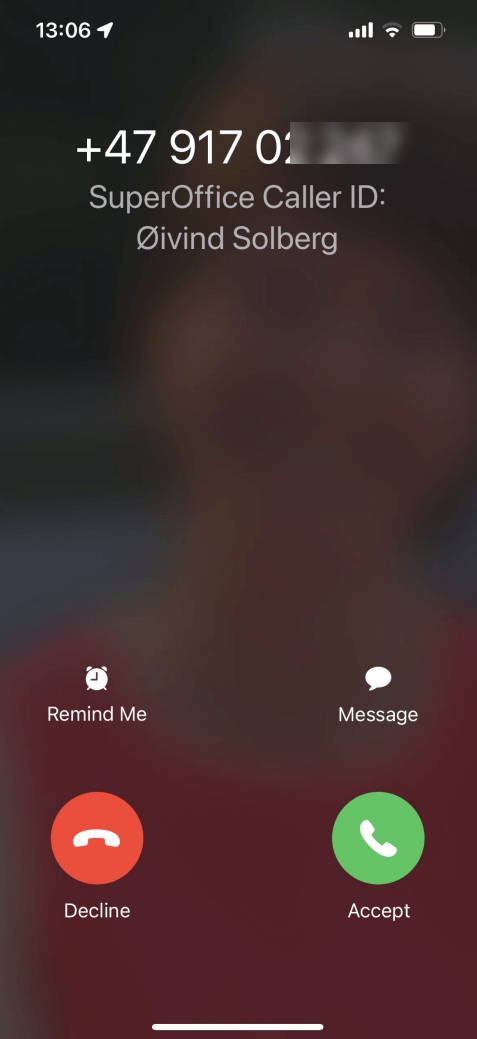
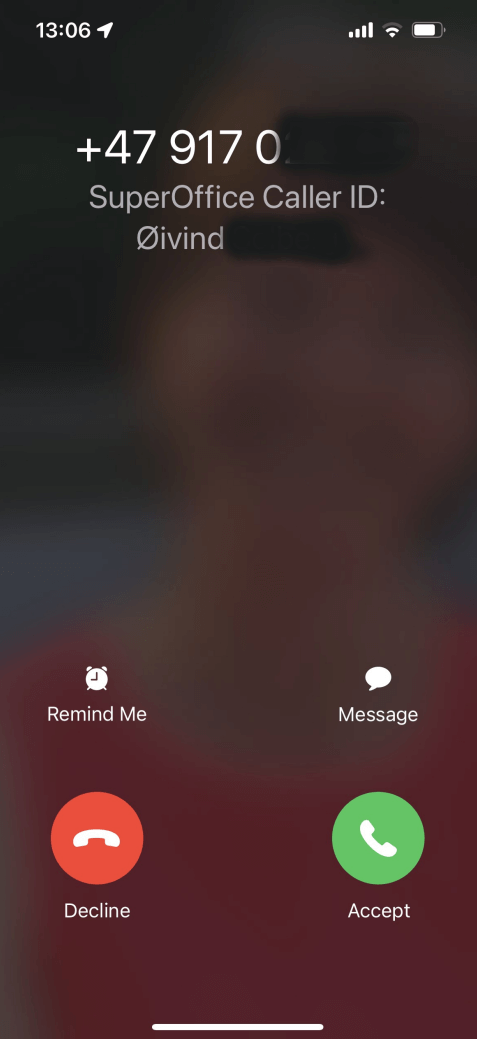
#1888 Blur names, fix paths

Changed region(s): [[0.5577, 0.0924, 0.8512, 0.1848], [0.4403, 0.1848, 0.7338, 0.2772]]

diff --git a/docs/da/mobile/superoffice-mobile/index.md b/docs/da/mobile/superoffice-mobile/index.md
@@ -92,7 +92,7 @@ Er du allerede logget ind? [Udforsk appen][4] eller [tilpas dine indstillinger][
 [1]: ../../../en/mobile/superoffice-mobile/login.md
 [2]: ../../../en/mobile/superoffice-mobile/set-up-email.md
 [3]: ../../../en/mobile/superoffice-mobile/caller-id.md
-[4]: ../../../en/mobile/superoffice-mobile/interface.md
+[4]: ../../../en/mobile/superoffice-mobile/interface-guide.md
 [5]: ../../../en/mobile/superoffice-mobile/settings.md
 [16]: https://apps.apple.com/us/app/superoffice-mobile-crm/id1516435957
 [17]: https://play.google.com/store/apps/details?id=no.superoffice.mobile&hl=no&gl=US&pli=1

diff --git a/docs/no/mobile/superoffice-mobile/index.md b/docs/no/mobile/superoffice-mobile/index.md
@@ -92,7 +92,7 @@ Allerede logget inn? [Utforsk grensesnittet][4] eller [tilpass innstillingene di
 [1]: ../../../en/mobile/superoffice-mobile/login.md
 [2]: ../../../en/mobile/superoffice-mobile/set-up-email.md
 [3]: ../../../en/mobile/superoffice-mobile/caller-id.md
-[4]: ../../../en/mobile/superoffice-mobile/interface.md
+[4]: ../../../en/mobile/superoffice-mobile/interface-guide.md
 [5]: ../../../en/mobile/superoffice-mobile/settings.md
 [16]: https://apps.apple.com/us/app/superoffice-mobile-crm/id1516435957
 [17]: https://play.google.com/store/apps/details?id=no.superoffice.mobile&hl=no&gl=US&pli=1

diff --git a/docs/sv/mobile/superoffice-mobile/index.md b/docs/sv/mobile/superoffice-mobile/index.md
@@ -92,7 +92,7 @@ Redan inloggad? [Utforska gränssnittet][4] eller [anpassa dina inställningar][
 [1]: ../../../en/mobile/superoffice-mobile/login.md
 [2]: ../../../en/mobile/superoffice-mobile/set-up-email.md
 [3]: ../../../en/mobile/superoffice-mobile/caller-id.md
-[4]: ../../../en/mobile/superoffice-mobile/interface.md
+[4]: ../../../en/mobile/superoffice-mobile/interface-guide.md
 [5]: ../../../en/mobile/superoffice-mobile/settings.md
 [16]: https://apps.apple.com/us/app/superoffice-mobile-crm/id1516435957
 [17]: https://play.google.com/store/apps/details?id=no.superoffice.mobile&hl=no&gl=US&pli=1

diff --git a/docs/de/mobile/superoffice-mobile/index.md b/docs/de/mobile/superoffice-mobile/index.md
@@ -92,7 +92,7 @@ Bereits angemeldet? [App entdecken][4] oder [Einstellungen anpassen][5].
 [1]: ../../../en/mobile/superoffice-mobile/login.md
 [2]: ../../../en/mobile/superoffice-mobile/set-up-email.md
 [3]: ../../../en/mobile/superoffice-mobile/caller-id.md
-[4]: ../../../en/mobile/superoffice-mobile/interface.md
+[4]: ../../../en/mobile/superoffice-mobile/interface-guide.md
 [5]: ../../../en/mobile/superoffice-mobile/settings.md
 [16]: https://apps.apple.com/us/app/superoffice-mobile-crm/id1516435957
 [17]: https://play.google.com/store/apps/details?id=no.superoffice.mobile&hl=no&gl=US&pli=1

diff --git a/docs/nl/mobile/superoffice-mobile/index.md b/docs/nl/mobile/superoffice-mobile/index.md
@@ -92,7 +92,7 @@ Al ingelogd? [Verken de interface][4] of [pas uw instellingen aan][5].
 [1]: ../../../en/mobile/superoffice-mobile/login.md
 [2]: ../../../en/mobile/superoffice-mobile/set-up-email.md
 [3]: ../../../en/mobile/superoffice-mobile/caller-id.md
-[4]: ../../../en/mobile/superoffice-mobile/interface.md
+[4]: ../../../en/mobile/superoffice-mobile/interface-guide.md
 [5]: ../../../en/mobile/superoffice-mobile/settings.md
 [16]: https://apps.apple.com/us/app/superoffice-mobile-crm/id1516435957
 [17]: https://play.google.com/store/apps/details?id=no.superoffice.mobile&hl=no&gl=US&pli=1

diff --git a/docs/en/mobile/superoffice-mobile/index.md b/docs/en/mobile/superoffice-mobile/index.md
@@ -96,7 +96,7 @@ Already logged in? [Explore the interface][4] or [customize your settings][5].
 [1]: login.md
 [2]: set-up-email.md
 [3]: caller-id.md
-[4]: interface.md
+[4]: interface-guide.md
 [5]: settings.md
 [6]: diary/index.md
 [7]: sale/index.md

diff --git a/docs/en/mobile/superoffice-mobile/sale/approve-quote.md b/docs/en/mobile/superoffice-mobile/sale/approve-quote.md
@@ -5,7 +5,7 @@ description: How to approve or reject a quote for a sale in SuperOffice Mobile C
 keywords: quote, approve, sale
 author: Bergfrid Dias
 date: 06.10.2025
-version: 10.2
+version: 11.1
 topic: howto
 client: mobile
 language: en
